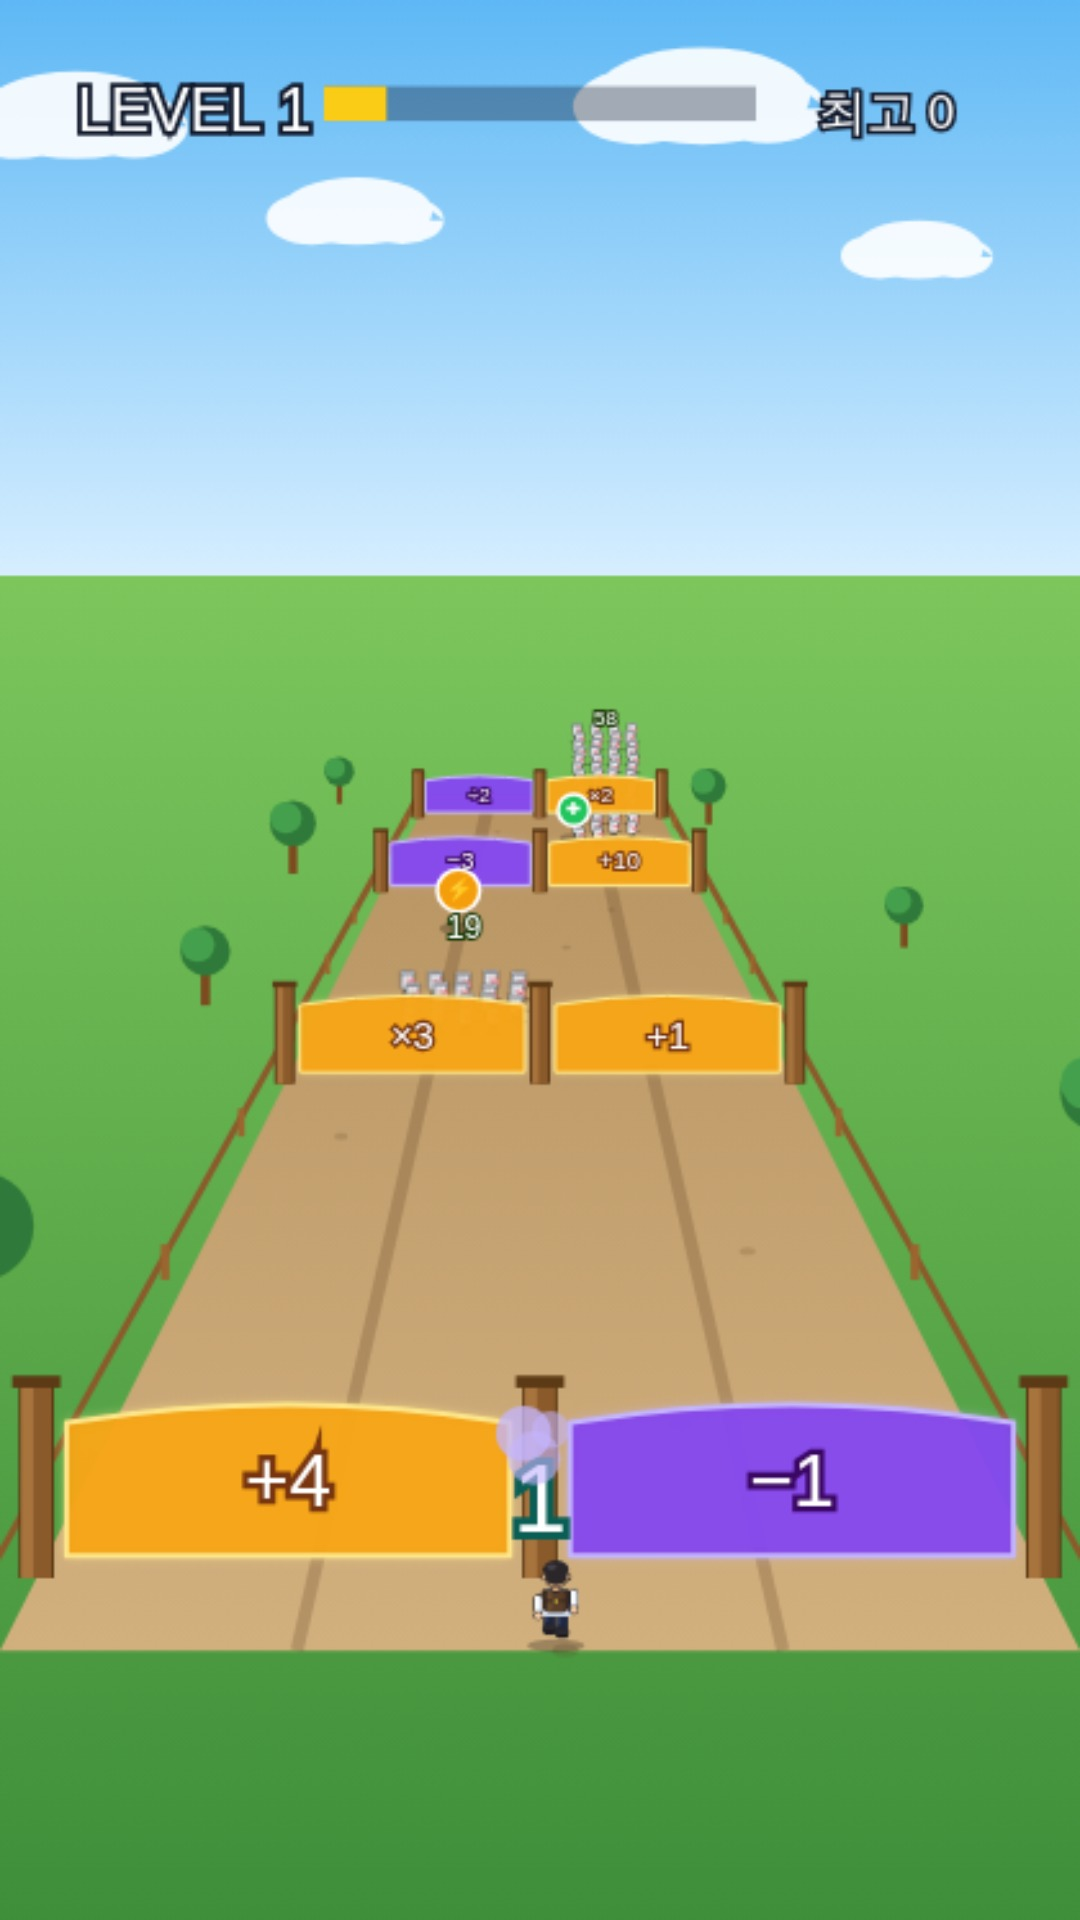
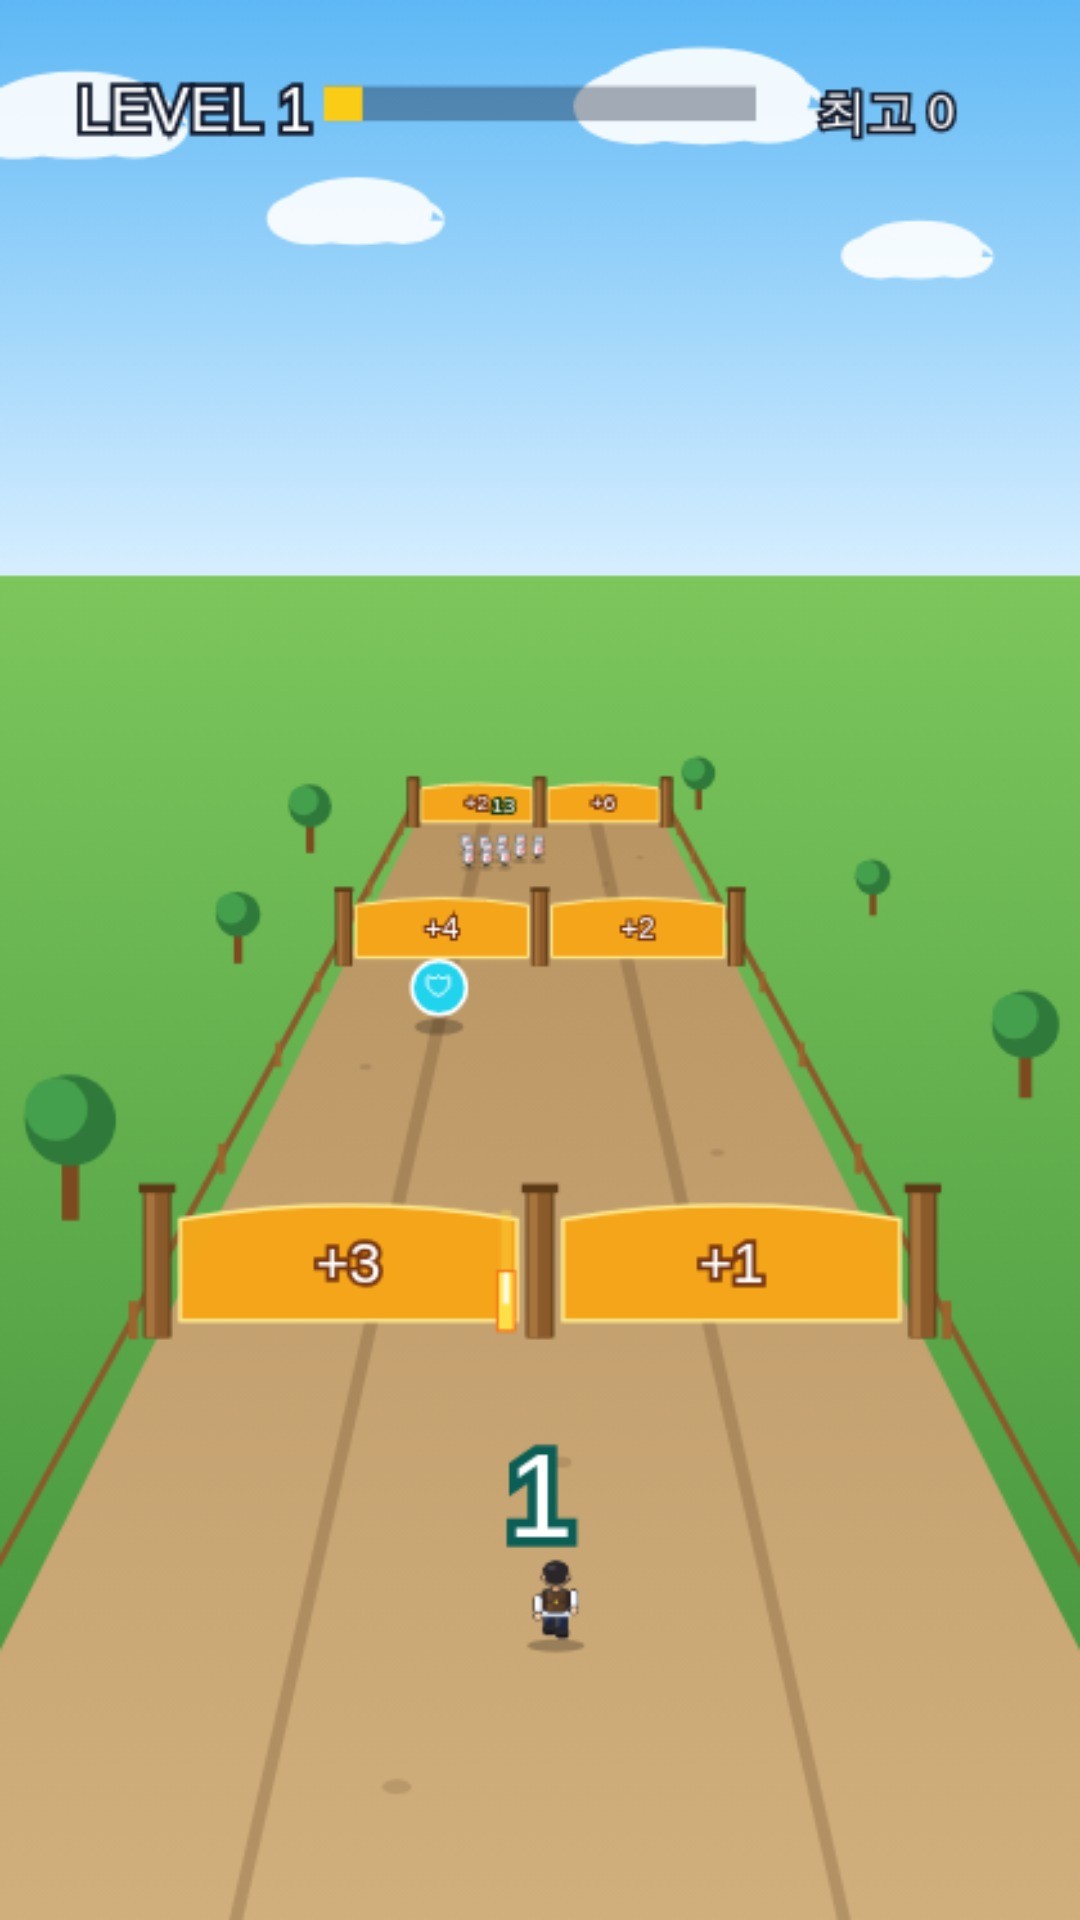
Give the villain a wall of henchmen and punchier hits
The end of a stage was one person standing on an empty road, which read
small. The villain now stands in front of a stand of henchmen stacked
upward and widening in screen space, so the fight has scale from far
down the road; rows disappear as its HP drops, and the HP bar is a
chunky bar pinned near the top of the screen with the count on it.

Hits read harder too: tracer rounds are thicker with a trail and a hot
core, gates and squad contact flash the screen in their own colour, the
crew count pops when a gate lands, and killing the villain flashes white
and shakes the screen.

Claude-Session: https://claude.ai/code/session_018No3jaNYgLhyhJh7EymzRT

diff --git a/android-game/crowdrush/src/main/kotlin/com/richroro/crowdrush/CrowdView.kt b/android-game/crowdrush/src/main/kotlin/com/richroro/crowdrush/CrowdView.kt
@@ -124,8 +124,12 @@ class CrowdView @JvmOverloads constructor(
         colorFilter = LightingColorFilter(0xFFFFFFFF.toInt(), 0x00FF4040)
     }
     private var monsterHitTimer = 0f
+    private var flashTimer = 0f
+    private var flashColor = 0
+    private val flashPaint = Paint()
     private val hpBackPaint = Paint().apply { color = 0x8C0F172A.toInt() }
-    private val hpPaint = Paint().apply { color = color(R.color.enemy) }
+    private val hpPaint = Paint().apply { color = color(R.color.hp_fill) }
+    private val hpTrackPaint = Paint().apply { color = color(R.color.hp_track) }
     private val hpEdgePaint = Paint().apply { color = Color.WHITE; style = Paint.Style.STROKE; strokeWidth = 1.5f }
     private val spritePaint = Paint(Paint.FILTER_BITMAP_FLAG or Paint.ANTI_ALIAS_FLAG)
     private val hitSpritePaint = Paint(Paint.FILTER_BITMAP_FLAG or Paint.ANTI_ALIAS_FLAG).apply {
@@ -140,6 +144,7 @@ class CrowdView @JvmOverloads constructor(
     private val barPaint = Paint().apply { color = color(R.color.gold) }
     private val bulletPaint = Paint().apply { color = color(R.color.bullet) }
     private val bulletEdgePaint = Paint().apply { color = color(R.color.bullet_edge) }
+    private val corePaint = Paint().apply { color = 0xFFFFFBEB.toInt() }
     private val fillPaint = Paint(Paint.ANTI_ALIAS_FLAG).apply {
         typeface = Typeface.DEFAULT_BOLD
         textAlign = Paint.Align.CENTER
@@ -233,6 +238,11 @@ class CrowdView @JvmOverloads constructor(
         floatTexts.add(FloatText(text, x, z, 0.8f, 0.8f, color))
     }
 
+    private fun screenFlash(color: Int, strength: Float) {
+        flashColor = color
+        flashTimer = strength
+    }
+
     private fun handleEvent(e: CrowdWorld.Event) {
         val sparkGood = color(R.color.spark_good)
         val sparkBad = color(R.color.spark_bad)
@@ -259,9 +269,10 @@ class CrowdView @JvmOverloads constructor(
             }
             CrowdWorld.Event.Type.HIT_BOSS -> {
                 monsterHitTimer = 0.08f
-                sparks(e.x, e.z, if (e.flag) 24 else 3, color(R.color.monster_spark), 0.3f)
+                sparks(e.x, e.z, if (e.flag) 30 else 3, color(R.color.monster_spark), 0.3f)
                 if (e.flag) {
-                    shakeTimer = 0.4f
+                    shakeTimer = 0.5f
+                    screenFlash(Color.WHITE, 0.5f)
                     play(sndBoom, 7, 0, 0.9f)
                 } else {
                     play(sndHit, 1, 50, 0.3f, 0.2f)
@@ -274,16 +285,21 @@ class CrowdView @JvmOverloads constructor(
             }
             CrowdWorld.Event.Type.GATE_GOOD -> {
                 floatText(e.label, e.x, e.z, gold)
-                sparks(e.x, e.z, 12, sparkGood, 0.4f)
+                sparks(e.x, e.z, 18, sparkGood, 0.5f)
+                screenFlash(sparkGood, 0.22f)
                 play(sndDing, 2, 80, 0.7f)
             }
             CrowdWorld.Event.Type.GATE_BAD -> {
                 floatText(e.label, e.x, e.z, sparkBad)
+                sparks(e.x, e.z, 10, sparkBad, 0.4f)
+                screenFlash(sparkBad, 0.3f)
                 play(sndBuzz, 3, 150, 0.7f)
             }
             CrowdWorld.Event.Type.CONTACT -> {
                 floatText("-" + e.value + " " + stageMobs[stageIndex(world.level)], e.x, e.z, sparkBad)
-                sparks(e.x, e.z, 14, color(R.color.spark_enemy), 0.4f)
+                sparks(e.x, e.z, 18, color(R.color.spark_enemy), 0.5f)
+                screenFlash(color(R.color.hit), 0.3f)
+                shakeTimer = 0.25f
                 play(sndBuzz, 3, 150, 0.7f)
             }
             CrowdWorld.Event.Type.ITEM -> {
@@ -360,6 +376,7 @@ class CrowdView @JvmOverloads constructor(
         muzzleTimer = max(0f, muzzleTimer - dt)
         monsterHitTimer = max(0f, monsterHitTimer - dt)
         shakeTimer = max(0f, shakeTimer - dt)
+        flashTimer = max(0f, flashTimer - dt * 2.2f)
         val pi = particles.iterator()
         while (pi.hasNext()) {
             val p = pi.next()
@@ -551,6 +568,11 @@ class CrowdView @JvmOverloads constructor(
 
         drawPlayer(canvas, w)
         drawFx(canvas, w)
+        if (flashTimer > 0f) {
+            flashPaint.color = flashColor
+            flashPaint.alpha = (255 * min(0.55f, flashTimer)).toInt().coerceIn(0, 255)
+            canvas.drawRect(-w, -h, w * 2f, h * 2f, flashPaint)
+        }
         canvas.restore()
         drawHud(canvas, w, h)
         drawOverlay(canvas, w, h)
@@ -757,18 +779,55 @@ class CrowdView @JvmOverloads constructor(
         val f = factor(d)
         if (f < 0.05f) return
         val w = width.toFloat()
-        val bw = max(2f, w * 0.012f * f)
-        val bh = max(4f, w * 0.035f * f)
+        val bw = max(3f, w * 0.018f * f)
+        val bh = max(7f, w * 0.07f * f)
         val x = screenX(bullet.x, f)
-        val y = screenY(f) - w * 0.06f * f
+        val y = screenY(f) - w * 0.07f * f
+        bulletPaint.alpha = 90                                           // tracer trail
+        canvas.drawRect(x - bw * 0.35f, y - bh * 2.1f, x + bw * 0.35f, y - bh * 0.8f, bulletPaint)
+        bulletPaint.alpha = 255
         canvas.drawRect(x - bw / 2f - 1f, y - bh - 1f, x + bw / 2f + 1f, y + 1f, bulletEdgePaint)
         canvas.drawRect(x - bw / 2f, y - bh, x + bw / 2f, y, bulletPaint)
+        canvas.drawRect(x - bw * 0.2f, y - bh, x + bw * 0.2f, y - bh * 0.45f, corePaint)
+    }
+
+    /**
+     * A wall of henchmen behind the villain, laid out in screen space so it stacks upward and
+     * widens like a packed stand. It shrinks row by row as the villain's HP drops.
+     */
+    private fun drawHorde(canvas: Canvas, b: CrowdWorld.Boss, baseY: Float, f: Float) {
+        val ratio = (b.count / max(1, b.maxCount).toFloat()).coerceIn(0f, 1f)
+        if (ratio <= 0f) return
+        val w = width.toFloat()
+        val frames = mobFrames[stageIndex(world.level)]
+        val sh = w * 0.062f * (0.8f + 0.45f * f)
+        val sw = sh * 0.8f
+        val rowH = sh * 0.40f
+        val rows = max(1, kotlin.math.ceil(HORDE_ROWS * ratio).toInt())
+        var budget = 340
+        for (row in rows - 1 downTo 0) {
+            if (budget <= 0) break
+            val y = baseY - row * rowH
+            val halfPx = min(w * 0.78f, w * (0.26f + row * 0.055f))
+            val cols = max(7, (halfPx * 2f / (sw * 0.82f)).toInt())
+            spritePaint.alpha = (255 * (0.62f + 0.38f * (1f - row / (HORDE_ROWS * 1.4f)))).toInt().coerceIn(0, 255)
+            for (col in 0 until cols) {
+                if (budget <= 0) break
+                val px = w / 2f - halfPx + (col + if (row % 2 == 1) 0.5f else 0f) * (halfPx * 2f / cols)
+                if (px < -sw || px > w + sw) continue
+                rect.set(px - sw / 2f, y - sh, px + sw / 2f, y)
+                canvas.drawBitmap(frames[(row + col) and 1], null, rect, spritePaint)
+                budget--
+            }
+        }
+        spritePaint.alpha = 255
     }
 
     private fun drawMonster(canvas: Canvas, b: CrowdWorld.Boss, d: Float) {
         val f = factor(d)
         if (f < 0.05f) return
         val w = width.toFloat()
+        drawHorde(canvas, b, screenY(f), f)
         val y = screenY(f)
         val frames = bossFrames[b.kind.coerceIn(0, bossFrames.size - 1)]
         val stomp = if (b.marching) abs(sin(runTime * PI_F * 3f)) else 0f
@@ -786,14 +845,17 @@ class CrowdView @JvmOverloads constructor(
         rect.set(x - mw / 2f, yTop - mh - lift, x + mw / 2f, yTop - lift)
         canvas.drawBitmap(sprite, null, rect, if (hit) monsterHitPaint else spritePaint)
         label(canvas, monsterName(b.kind), x, ground + w * 0.05f * f, max(8f, w * 0.05f * f), Color.WHITE, color(R.color.gate_post_bad))
-        // HP bar + number
-        val bw = w * 0.5f * f
-        val bh = max(3f, w * 0.03f * f)
-        val by = yTop - mh - w * 0.09f * f
-        canvas.drawRect(x - bw / 2f, by, x + bw / 2f, by + bh, hpBackPaint)
+        // a chunky HP bar with the count sitting on it
+        val h = height.toFloat()
+        val bw = max(w * 0.46f, w * 0.62f * f)
+        val bh = max(w * 0.035f, w * 0.05f * f)
+        val by = max(h * 0.1f, yTop - mh - w * 0.1f * f)
+        canvas.drawRect(x - bw / 2f - 2f, by - 2f, x + bw / 2f + 2f, by + bh + 2f, hpBackPaint)
+        canvas.drawRect(x - bw / 2f, by, x + bw / 2f, by + bh, hpTrackPaint)
         canvas.drawRect(x - bw / 2f, by, x - bw / 2f + bw * (b.count / max(1, b.maxCount).toFloat()), by + bh, hpPaint)
-        canvas.drawRect(x - bw / 2f, by, x + bw / 2f, by + bh, hpEdgePaint)
-        label(canvas, b.count.toString(), x, by - w * 0.05f * f, max(10f, w * 0.1f * f), Color.WHITE, color(R.color.gate_post_bad))
+        hpEdgePaint.strokeWidth = 2f
+        canvas.drawRect(x - bw / 2f - 2f, by - 2f, x + bw / 2f + 2f, by + bh + 2f, hpEdgePaint)
+        label(canvas, b.count.toString(), x, by + bh / 2f, max(14f, w * 0.075f), Color.WHITE, color(R.color.gate_post_bad))
     }
 
     private fun drawPlayer(canvas: Canvas, w: Float) {
@@ -805,8 +867,9 @@ class CrowdView @JvmOverloads constructor(
         val px = screenX(world.playerX, f)
         val paint = if (world.flash > 0f && !world.lastGateGood) hitSpritePaint else spritePaint
         drawCrowd(canvas, px, y - unit * 1.2f, drawn, unit, allyFrames, paint, grid = false)
+        val pop = if (world.flash > 0f) 1f + world.flash * 0.7f else 1f
         label(
-            canvas, world.count.toString(), px, y - unit * 1.2f - rv * 0.6f - unit * 4.4f, w * 0.09f,
+            canvas, world.count.toString(), px, y - unit * 1.2f - rv * 0.6f - unit * 4.4f, w * 0.11f * pop,
             if (world.flash > 0f) color(R.color.gold) else Color.WHITE, color(R.color.gate_post_good),
         )
     }
@@ -925,6 +988,7 @@ class CrowdView @JvmOverloads constructor(
         private const val LANE_HALF_PX = 0.5f
         private const val VIEW_DISTANCE = 60f
         private const val NEAR_OVERSHOOT = 3.4f
+        private const val HORDE_ROWS = 14f
         private const val STRIPE_SPACING = 4f
         private const val WALL_HEIGHT = 0.035f
         private const val MAX_DRAWN_UNITS = 64

diff --git a/android-game/README.md b/android-game/README.md
@@ -64,6 +64,7 @@ Villain Rush 의 캐릭터 이미지는 외부 에셋 없이 `tools/generate_spr
 - 잡몹은 총알 1발에 1개씩 줄고 0 이면 사라집니다. 부딪히면 남은 숫자만큼 병력이 줄고, 0 이하가 되면 게임 오버입니다.
 - 아이템 4종이 레인에 떠 있고 지나가면 획득합니다: ⚡ 연사(6초간 발사 속도 2배), 🛡 방어막(다음 손해 게이트 또는 적 접촉을 무효화, 접촉한 적은 전멸), ✚ 증원(병력 +30%, 최소 3명), 💣 폭탄(40m 안 적 군단 전멸, 보스 10% 감소). 게이트·적 군단과 5m 이상 떨어져 놓입니다.
 - 길 끝에는 그 스테이지의 **빌런** 한 명이 기다립니다. 골프채를 든 김부장(벗겨진 정수리와 콧수염), 선글라스와 금목걸이의 황금수저, 국자를 든 뽀글파마 잔소리 이모, 농구공을 든 층간소음 마왕 순으로 바뀝니다. 30m 안에 들어오면 포효하고(화면 흔들림) 천천히 다가옵니다. 사격으로 HP 를 깎을 수 있고, 도달했을 때 남은 HP 보다 인원이 많으면 스테이지 클리어. HP 는 "최선 경로 인원의 60% + 최선 경로 부대가 사거리 안에서 쏠 수 있는 탄수의 50%" 라서 잘 고르고 잘 쏘면 항상 이길 수 있습니다.
+- 빌런 뒤에는 **부하 무리 벽**이 관중석처럼 쌓여 있고, 빌런 HP 가 줄어들면 벽도 줄줄이 사라집니다. 화면 위에는 굵은 HP 바가 붙습니다.
 - 병사 크기는 화면 원근에만 따르고 인원수와 무관합니다. 군단이 커지면 넓게 퍼질 뿐입니다. 64명이 넘는 적 군단은 남은 비율만큼 그려지는 인원이 줄어듭니다.
 - 레벨이 오를수록 속도·레인 길이·게이트 수·적 군단 수가 늘어납니다.
 
